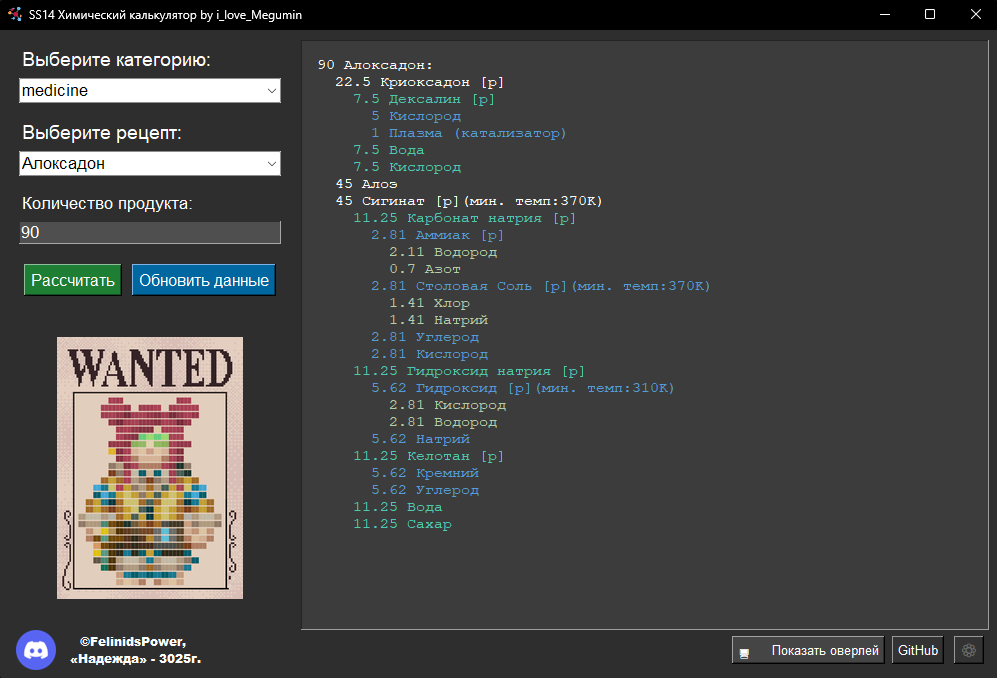
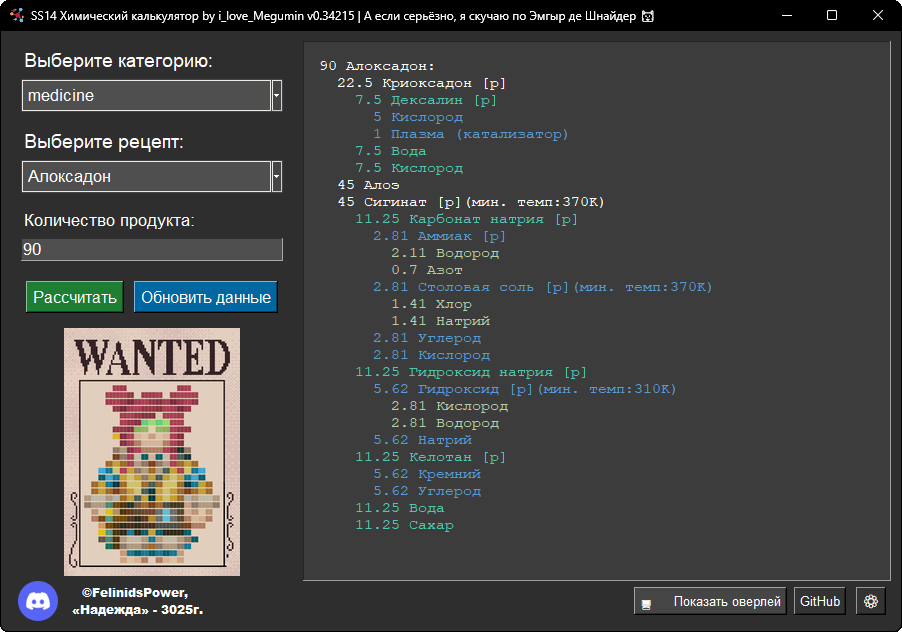
Обновление README.md

Changed region(s): [[0.0, 0.0, 1.0, 1.0]]

diff --git a/README.md b/README.md
@@ -10,15 +10,16 @@
 ## 🌟 Особенности
 - Расчет цепочек реакций с глубиной вложенности
 - Оверлей поверх игрового окна (Windows)
-- Автоматическое обновление рецептов из репозитория SS14
-- Поддержка электролиза и центрифуги
+- Автоматическое обновление рецептов и переводов из репозитория SS14
+- Автоматическая проверка обновлений
+- Поддержка электролиза, центрифуги и смешивания напитков
 
 ## 📥 Установка
 ### Скачайте готовый билд:
 [▶ Последний релиз](https://github.com/R-R0S/ss14-calc/releases/latest)
+- после запуска приложение создаст каталоги для рецептов и переводов, а так же файл настроек.
 
 ### 🎮 Использование
-* #### При первом запуске необходимо обновить рецепты!
 * Выберите категорию рецептов
 * Укажите нужное количество продукта
 * Нажмите "Рассчитать"
@@ -28,7 +29,7 @@
 
 ```🖥 Показать/скрыть Оверлей``` - Включает оверлей с рецептами
 
-```⚙ Настройки``` -  (в разработке)
+```⚙``` -  Настройки, изменяйте прозрачность оверлея, цветов в рекурсии и добавляйте свои рецепты и переводы.
 
 ### Сборка из исходников
 1. Клонируйте репозиторий:
